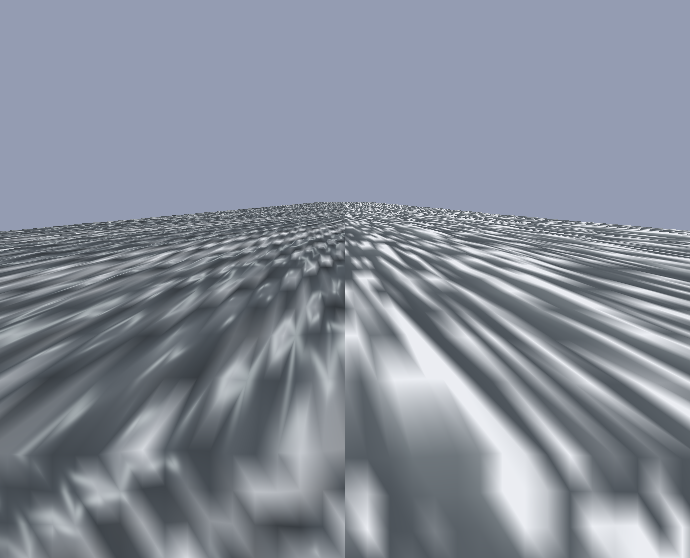
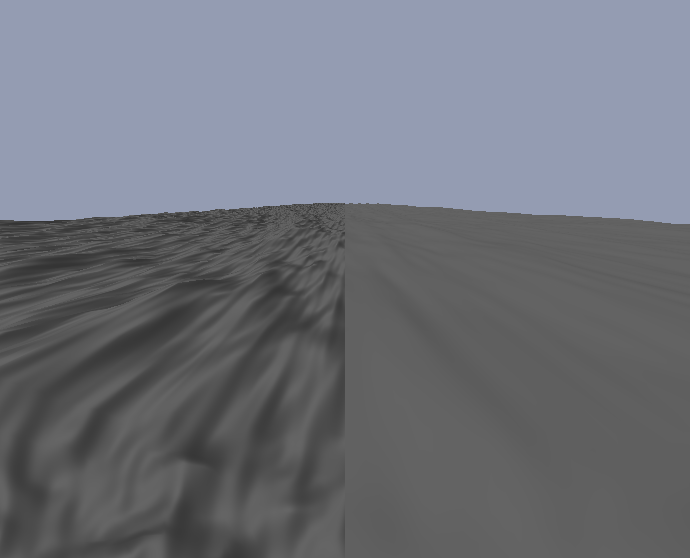
water S2: wave silhouette — 20-wave Gerstner spectrum + shared waterShade
First look slice: tune the winner's wave GEOMETRY on the open-sea plane, neutral
grey, judged by an unprimed critic against the reference (realism, not a green
test).

- gerstnerField: replace the few-wave rotating cascade with a 20-wave discretised
  spectrum baked on the CPU (log-spaced wavelengths 96→6.5 m, stratified
  full-circle directions, per-wave phase offsets). This is what breaks the
  single-axis "corduroy" grain a handful of aligned Gerstner waves produce and
  gives an isotropic swell with fine chop. Deterministic (seeded).
- waterMaterialWgsl: new shared `waterShade(sample, sunDir)` — neutral grey shaded
  by normal·sun only. Single-sourced; colour/foam/glint extend it in later slices.
- waterPlanePass: evaluate `waterField` in the vertex stage to displace and again
  per fragment for a crisp normal, so the swell reads as geometry, not a
  flat-shaded facet grid. Uniform grid at res 340; drop the abandoned grade knob.
- Camera raised to pitch 0.30; IFFT fallback height bumped so it stays legible.
- New gate web/scenes/system/water-silhouette.mjs (winner grey, frozen clock,
  coverage + budget); bakeoff compare baseline re-blessed.

Unprimed verdict: reads as real 3D multi-directional water (PASS relief, PASS
no-corduroy). Known: it is a calmer sea than the reference and crest occlusion is
gentle — the "swell with body" look is completed by foam (S3), glint (S4) and the
colour/depth ramp (S5). Battle/campaign snapshots unmoved (0 px diff).
[…]

diff --git a/packages/game-renderer/src/water/gerstnerField.ts b/packages/game-renderer/src/water/gerstnerField.ts
@@ -1,57 +1,98 @@
 import type { WaterFieldId, WaterFieldSource, WaterFieldStats } from './waterField';
 
-// Candidate A — analytic Gerstner-style ocean. A sum of directional gravity
-// waves with deep-water dispersion (ω = √(gk)), sharpened crests, and an
-// analytic normal/foam derived in closed form. No GPU resources, no compute, no
-// per-frame upload: `bindGroupLayout()`/`bindGroup()` are null and `ensureFrame`
-// is a no-op. This is the perf floor and the capability/weak-GPU fallback the
-// IFFT route degrades to.
+// Candidate A — analytic Gerstner-style ocean, and (per the Slice 1 bake-off) the
+// production water field. A sum of many directional gravity waves with deep-water
+// dispersion (ω = √(gk)) and sharpened crests, evaluated in closed form with an
+// analytic normal. No GPU resources, no compute, no per-frame upload:
+// `bindGroupLayout()`/`bindGroup()` are null and `ensureFrame` is a no-op.
 //
-// Each octave rotates direction and ~doubles spatial frequency while amplitude
-// falls geometrically — a coarse JONSWAP-shaped spectrum sampled at a handful of
-// bands, which at the distant 2.5D ortho camera is the whole visible story.
+// The wave set is a discretised ocean spectrum baked once on the CPU: wavelengths
+// log-spaced from long swell to short chop, amplitudes falling with wavelength,
+// and directions stratified around the full circle with jitter. The many spread
+// directions are what keep the open sea reading as an irregular, isotropic swell
+// instead of a single raked "corduroy" grain — the failure mode of a handful of
+// aligned Gerstner waves. Deterministic (seeded) so snapshots stay stable.
 
-const GERSTNER_WGSL = `
+const WAVE_COUNT = 20;
+const WAVE_SEED = 0x5eed_a1;
+
+function mulberry32(seed: number): () => number {
+  let a = seed >>> 0;
+  return () => {
+    a = (a + 0x6d2b79f5) | 0;
+    let t = Math.imul(a ^ (a >>> 15), 1 | a);
+    t = (t + Math.imul(t ^ (t >>> 7), 61 | t)) ^ t;
+    return ((t ^ (t >>> 14)) >>> 0) / 4294967296;
+  };
+}
+
+// vec4(dirX, dirY, wavelength m, amplitude m) per wave, as a WGSL array literal.
+function bakeWaveArray(): string {
+  const rng = mulberry32(WAVE_SEED);
+  const longL = 96;
+  const shortL = 6.5; // down into fine chop so the big swells carry small-scale ripple
+  const rows: string[] = [];
+  for (let i = 0; i < WAVE_COUNT; i++) {
+    const t = i / (WAVE_COUNT - 1);
+    const wavelength = longL * (shortL / longL) ** t * (0.85 + 0.3 * rng());
+    // Stratified direction: one wave per equal arc, jittered — even coverage of
+    // the full circle without the clustering random sampling would give.
+    const angle = 2 * Math.PI * ((i + 0.5 * rng()) / WAVE_COUNT);
+    const dx = Math.cos(angle);
+    const dy = Math.sin(angle);
+    // Longer waves carry more amplitude (a red spectrum); jittered so no single
+    // train dominates the grain.
+    const amp = 2.7 * (wavelength / longL) ** 0.7 * (0.7 + 0.6 * rng());
+    rows.push(`vec4f(${dx.toFixed(4)}, ${dy.toFixed(4)}, ${wavelength.toFixed(2)}, ${amp.toFixed(3)})`);
+  }
+  return `array<vec4f, ${WAVE_COUNT}>(\n    ${rows.join(',\n    ')}\n  )`;
+}
+
+function gerstnerWgsl(): string {
+  return `
 struct WaterSample { height: f32, normal: vec3f, foam: f32 };
 
-const WATER_WAVE_COUNT: i32 = 8;
+const WATER_WAVES = ${bakeWaveArray()};
 
 fn waterField(p: vec2f, t: f32) -> WaterSample {
+  var waves = WATER_WAVES;
+  let g = 9.81;
   var h = 0.0;
   var slopeX = 0.0;
   var slopeY = 0.0;
   var crest = 0.0;
-  var amp = 0.58;
-  var freq = 0.042;                      // base spatial frequency (cycles / metre)
-  var dir = normalize(vec2f(0.86, 0.50));
-  let g = 9.81;
   var ampSum = 0.0001;
-  for (var i = 0; i < WATER_WAVE_COUNT; i = i + 1) {
-    let k = freq * 6.2831853;            // angular wavenumber
-    let w = sqrt(g * k);                 // deep-water dispersion
-    let phase = dot(dir, p) * k - w * t * 0.42;
+  for (var i = 0; i < ${WAVE_COUNT}; i = i + 1) {
+    let wv = waves[i];
+    let dir = wv.xy;
+    let k = 6.2831853 / wv.z;             // angular wavenumber from wavelength
+    let amp = wv.w;
+    let w = sqrt(g * k);                  // deep-water dispersion
+    // Per-wave phase offset so the trains don't all align at the world origin
+    // (which otherwise focuses into a standing rosette in the middle of the view).
+    let ph0 = fract(sin(f32(i) * 127.1 + wv.z * 3.71) * 43758.5453) * 6.2831853;
+    let phase = dot(dir, p) * k - w * t * 0.42 + ph0;
     let s = sin(phase);
     let c = cos(phase);
-    let hump = s * 0.5 + 0.5;            // 0..1 wave profile
-    let sharp = pow(hump, 1.7);          // sharpen toward Gerstner-like peaks
-    h = h + amp * (sharp - 0.34);
-    // d(sharp)/d(phase) = 1.7 * hump^0.7 * 0.5 * c
-    let dHump = 0.85 * pow(hump, 0.7) * c;
-    let dphase = amp * 1.7 * dHump * k;
+    let hump = s * 0.5 + 0.5;             // 0..1 wave profile
+    let sharp = pow(hump, 2.0);           // narrow peaks, wide flat troughs (trochoidal read)
+    h = h + amp * (sharp - 0.333);
+    let dHump = pow(hump, 1.0) * c;       // d(sharp)/d(phase)
+    let dphase = amp * 2.0 * dHump * k;
     slopeX = slopeX + dphase * dir.x;
     slopeY = slopeY + dphase * dir.y;
-    crest = crest + max(0.0, c) * amp * (freq / 0.042) * 0.25;
+    crest = crest + max(0.0, c) * amp * k * 0.5;
     ampSum = ampSum + amp;
-    amp = amp * 0.62;
-    freq = freq * 1.92;
-    dir = vec2f(dir.x * 0.62 - dir.y * 0.78, dir.x * 0.78 + dir.y * 0.62); // rotate ~51.5°
   }
   var out: WaterSample;
   out.height = h;
   out.normal = normalize(vec3f(-slopeX, -slopeY, 1.0));
-  out.foam = clamp(crest / ampSum * 1.5 - 0.62, 0.0, 1.0);
+  out.foam = clamp(crest / ampSum * 1.4 - 0.5, 0.0, 1.0);
   return out;
 }`;
+}
+
+const GERSTNER_WGSL = gerstnerWgsl();
 
 export class GerstnerWaterField implements WaterFieldSource {
   readonly id: WaterFieldId = 'gerstner';

diff --git a/packages/game-renderer/src/water/waterPlanePass.ts b/packages/game-renderer/src/water/waterPlanePass.ts
@@ -2,15 +2,17 @@ import type { RawFrameShell, WorldRenderPass } from '../../../renderer-core/src/
 import { WORLD_CAMERA_WGSL } from '../../../renderer-core/src/cameraWgsl';
 import { compileShader } from '../../../renderer-core/src/compileShader';
 import { gpuMultisample, gpuOpaqueColorTarget, gpuWorldDepthStencil } from '../../../renderer-core/src/pipelineContracts';
+import { WATER_SHADE_WGSL } from './waterMaterialWgsl';
 import type { WaterFieldSource } from './waterField';
 
 // The candidate-agnostic open-sea pass: one tessellated plane at the battle
-// horizon camera, displaced and shaded entirely through a `WaterFieldSource`.
-// It calls `field.wgslSample()` to inline the field into its shader and binds
+// horizon camera, displaced and shaded entirely through a `WaterFieldSource`. It
+// calls `field.wgslSample()` to inline the field into its shader and binds
 // `field.bindGroup()` at group(1) when the field has one — it never branches on
-// which technique is live. Shading here is deliberately neutral grey (albedo and
-// the env-preset grade arrive in later slices); this slice judges geometry, foam
-// and glint, not colour.
+// which technique is live. `waterField` is evaluated in the vertex stage to
+// displace and again in the fragment stage for a crisp per-pixel normal, so the
+// swell reads as geometry rather than a flat-shaded facet grid. Shading is the
+// shared neutral-grey `waterShade` (colour/foam/glint arrive in later slices).
 
 export interface WaterPlaneRect {
   x0: number;
@@ -21,7 +23,12 @@ export interface WaterPlaneRect {
   res: number;
 }
 
-export const DEFAULT_WATER_PLANE: WaterPlaneRect = { x0: -360, y0: -160, x1: 360, y1: 1000, res: 240 };
+// Near edge starts behind the camera so the sea fills to the screen bottom; the
+// far edge runs past the horizon. A uniform grid suffices because per-fragment
+// normals keep the near field crisp regardless of triangle size.
+export const DEFAULT_WATER_PLANE: WaterPlaneRect = { x0: -420, y0: -160, x1: 420, y1: 1100, res: 340 };
+
+const WATER_SUN_WGSL = 'normalize(vec3f(-0.40, -0.28, 0.87))';
 
 export class WaterPlanePass {
   private readonly shell: RawFrameShell;
@@ -103,12 +110,11 @@ function waterPlaneWgsl(fieldWgsl: string): string {
   return `
 ${WORLD_CAMERA_WGSL}
 ${fieldWgsl}
+${WATER_SHADE_WGSL}
 
 struct VsOut {
   @builtin(position) pos: vec4f,
   @location(0) world: vec2f,
-  @location(1) normal: vec3f,
-  @location(2) foam: f32,
 };
 
 @vertex
@@ -118,30 +124,15 @@ fn vs(@location(0) world: vec2f) -> VsOut {
   var out: VsOut;
   out.pos = projectWorld3d(p3, civsimBattleWorldDepth3d(p3));
   out.world = world;
-  out.normal = s.normal;
-  out.foam = s.foam;
   return out;
 }
 
 @fragment
 fn fs(in: VsOut) -> @location(0) vec4f {
-  let sun = normalize(vec3f(-0.40, -0.28, 0.87));
-  let n = normalize(in.normal);
-  let lambert = clamp(dot(n, sun), 0.0, 1.0);
-  // Neutral grey water albedo — colour/depth grade is a later slice. The shape,
-  // glint and foam are what this slice judges.
-  let base = vec3f(0.32, 0.35, 0.38);
-  var col = base * (0.42 + 0.58 * lambert);
-  // Specular sun glint along the reflection of the low sun.
-  let viewUp = vec3f(0.0, 0.0, 1.0);
-  let half = normalize(sun + viewUp);
-  let spec = pow(clamp(dot(n, half), 0.0, 1.0), 64.0);
-  col = col + vec3f(0.85, 0.86, 0.82) * spec * 0.35;
-  // Grazing sky reflection.
-  let fres = pow(1.0 - clamp(n.z, 0.0, 1.0), 3.0);
-  col = mix(col, vec3f(0.55, 0.58, 0.62), fres * 0.30);
-  // Whitecaps.
-  col = mix(col, vec3f(0.92, 0.93, 0.95), clamp(in.foam, 0.0, 1.0));
+  // Re-evaluate the field per fragment for a crisp normal (the vertex stage only
+  // owns displacement). Neutral grey via the shared waterShade — silhouette only.
+  let s = waterField(in.world, cam.time);
+  let col = waterShade(s, ${WATER_SUN_WGSL});
   return vec4f(col, 1.0);
 }`;
 }

diff --git a/packages/game-renderer/src/water/waterMaterialWgsl.ts b/packages/game-renderer/src/water/waterMaterialWgsl.ts
@@ -1,0 +1,21 @@
+// The shared water shading WGSL — one `waterShade` consumed identically by both
+// fields and (from Slice 8) all three production surfaces, so the look is single-
+// sourced. It reads only a `WaterSample` (the frozen seam struct), never the
+// technique.
+//
+// Slice 2 scope: silhouette / value only. `waterShade` returns a NEUTRAL GREY
+// shaded purely by slope (`normal · sunDir`) so the crest/trough geometry reads
+// on its own. Colour (Slice 5), foam (Slice 3), and glint (Slice 4) extend this
+// function later; the albedo stays neutral until then (aesthetics creed: don't
+// bake light into albedo).
+
+export const WATER_SHADE_WGSL = `
+fn waterShade(sample: WaterSample, sunDir: vec3f) -> vec3f {
+  let n = normalize(sample.normal);
+  let diff = clamp(dot(n, sunDir), 0.0, 1.0);
+  // A soft sky-fill term keeps shadowed troughs from going black so the swell
+  // reads as a lit surface, not a cutout.
+  let sky = clamp(n.z, 0.0, 1.0);
+  let albedo = vec3f(0.40);
+  return albedo * (0.46 + 0.42 * diff + 0.12 * sky);
+}`;

diff --git a/apps/renderer-lab/src/router.ts b/apps/renderer-lab/src/router.ts
@@ -3040,7 +3040,7 @@ async function routeWaterBakeoff(ctx: LabContext) {
 
   const camera = camName === 'campaign'
     ? { x: 0, y: 90, zoom: 3.4, pitch: 0.42, yaw: 0, perspective: 0.02 }
-    : { x: 0, y: -6, zoom: 2.4, pitch: 0.13, yaw: 0, perspective: 0.03 };
+    : { x: 0, y: -6, zoom: 2.6, pitch: 0.30, yaw: 0, perspective: 0.032 };
   shell.setCamera(camera);
 
   // The preset only tints the sky clear colour for now; the water albedo stays

diff --git a/packages/game-renderer/src/water/ifftField/ifftField.ts b/packages/game-renderer/src/water/ifftField/ifftField.ts
@@ -117,7 +117,7 @@ struct WaterSample { height: f32, normal: vec3f, foam: f32 };
 @group(1) @binding(1) var oceanSampler: sampler;
 
 const OCEAN_PATCH: f32 = ${this.p.patch.toFixed(1)};
-const OCEAN_HEIGHT_SCALE: f32 = 150.0;
+const OCEAN_HEIGHT_SCALE: f32 = 260.0;
 const OCEAN_FOAM_SCALE: f32 = 24.0;
 const OCEAN_FOAM_BIAS: f32 = 0.10;
 

diff --git a/specs/water/README.md b/specs/water/README.md
@@ -12,14 +12,24 @@ Reference image (the compare-screenshots target):
 
 ## Next Agent Prompt
 
-> **Status:** Slice 1 landed. Winner: **Gerstner** (see
+> **Status:** Slices 1–2 landed. Winner: **Gerstner** (see
 > [`slices/01-bakeoff-decision.md`](slices/01-bakeoff-decision.md)). Last updated 2026-07-01.
 >
-> **You are picking up at Slice 2 (wave silhouette / displacement).** Read this README and
-> the decision artifact, then open [`slices/02-wave-silhouette.md`](slices/02-wave-silhouette.md)
-> and tune the **Gerstner** field's displacement on the open-sea `waterPlanePass` in the
-> `/renderer/water-bakeoff` lab route (neutral grey, the winner only). The `WaterFieldSource`
-> seam and the `time` clock are **frozen** — build against the seam, not the technique.
+> **You are picking up at Slice 3 (whitecap foam coverage).** Read this README and the
+> decision artifact, then open [`slices/03-foam-coverage.md`](slices/03-foam-coverage.md) and
+> add foam to the shared `waterShade` (`water/waterMaterialWgsl.ts`) driven by
+> `WaterSample.foam` (the Gerstner field already computes a crest/curvature foam term). Tune
+> on `/renderer/water-bakeoff?tech=gerstner` in neutral grey. The `WaterFieldSource` seam,
+> the `time` clock, and the Slice-2 wave geometry are **frozen** — build against the seam.
+>
+> **Slice 2 result:** the Gerstner field is now a 20-wave discretised spectrum (log-spaced
+> wavelengths 96→6.5 m, stratified full-circle directions, per-wave phase offsets) — an
+> isotropic swell with fine chop, judged (unprimed) as real 3D multi-directional water. It is
+> displaced through `projectWorld3d` and shaded per-fragment by the new shared `waterShade`
+> (neutral grey, `normal·sun` only). Camera raised to pitch 0.30. **Known:** it reads as a
+> *calmer* sea than the reference and its crest occlusion is gentle — the full "swell with
+> body" look depends on foam (S3), glint (S4) and the colour/depth ramp (S5), which are the
+> next slices. Do not chase occlusion by over-amplifying geometry.
 >
 > **Before you start:** invoke the `aesthetics` skill (the visual north star) and the
 > `renderer` skill (the build/debug workflow for GPU + WGSL work). Every visual slice
@@ -51,7 +61,7 @@ Reference image (the compare-screenshots target):
 >
 > **Global TODO (each item → owning slice):**
 > - [x] S1 — Technique bake-off spike + frozen seam + decision artifact → `slices/01-bakeoff-decision.md` (**Gerstner won**)
-> - [ ] S2 — Wave silhouette / displacement (open-sea plane, neutral grey) → `slices/02-wave-silhouette.md`
+> - [x] S2 — Wave silhouette / displacement (open-sea plane, neutral grey) → `slices/02-wave-silhouette.md` (**20-wave spectrum + waterShade**)
 > - [ ] S3 — Whitecap foam coverage → `slices/03-foam-coverage.md`
 > - [ ] S4 — Sun-glint streak → `slices/04-sun-glint.md`
 > - [ ] S5 — Water albedo + depth ramp × env preset (introduces `waterPalette`) → `slices/05-albedo-depth-ramp.md`
